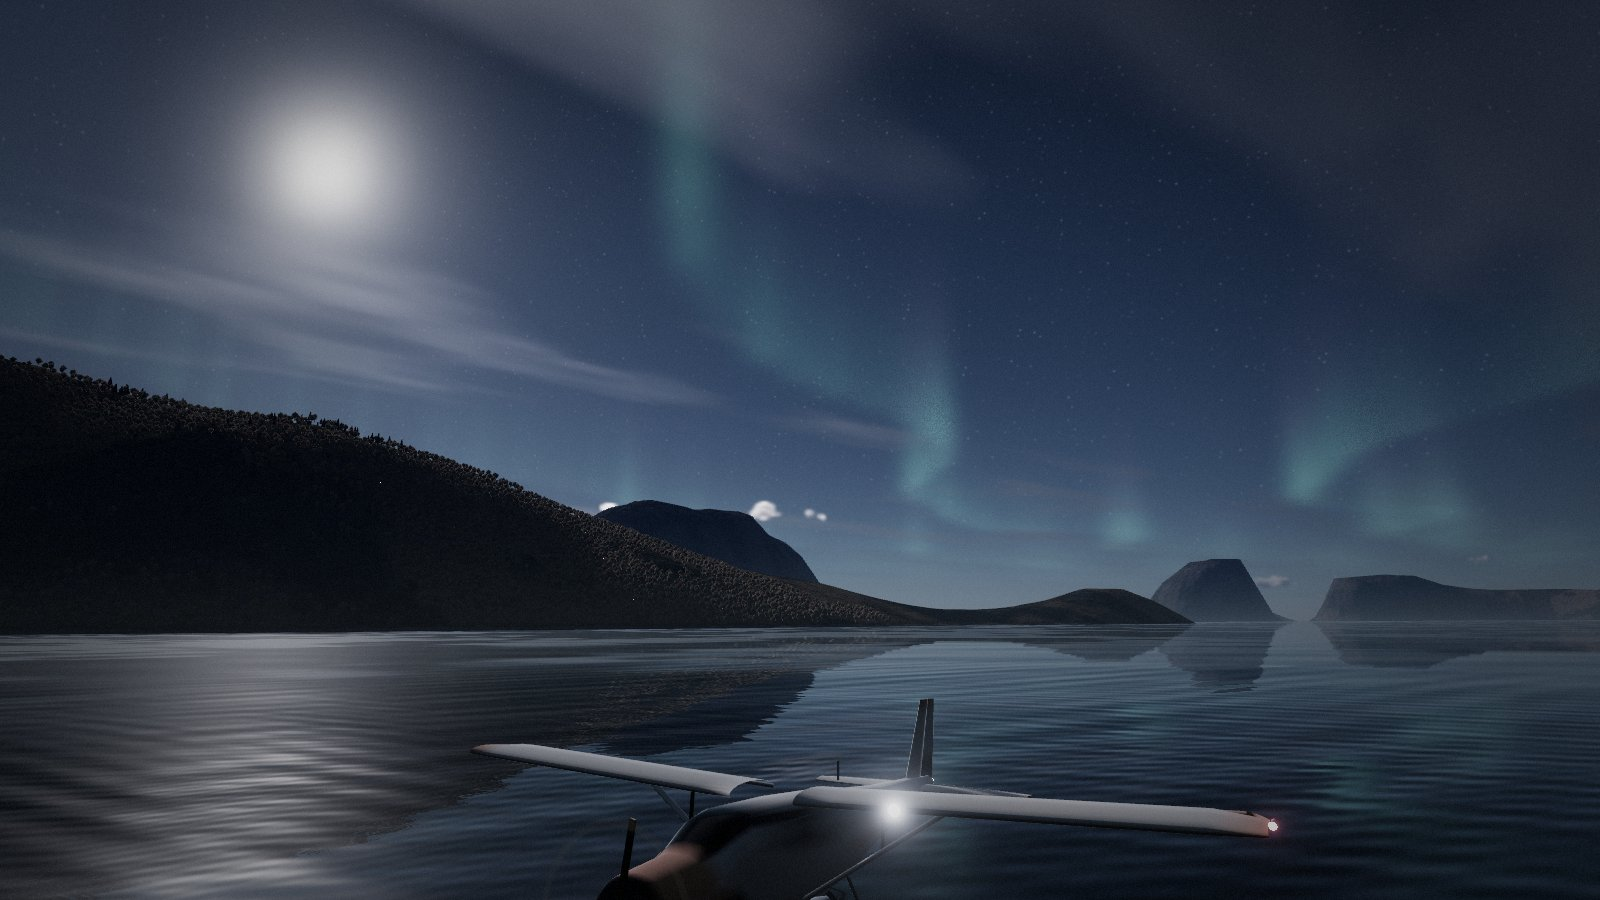
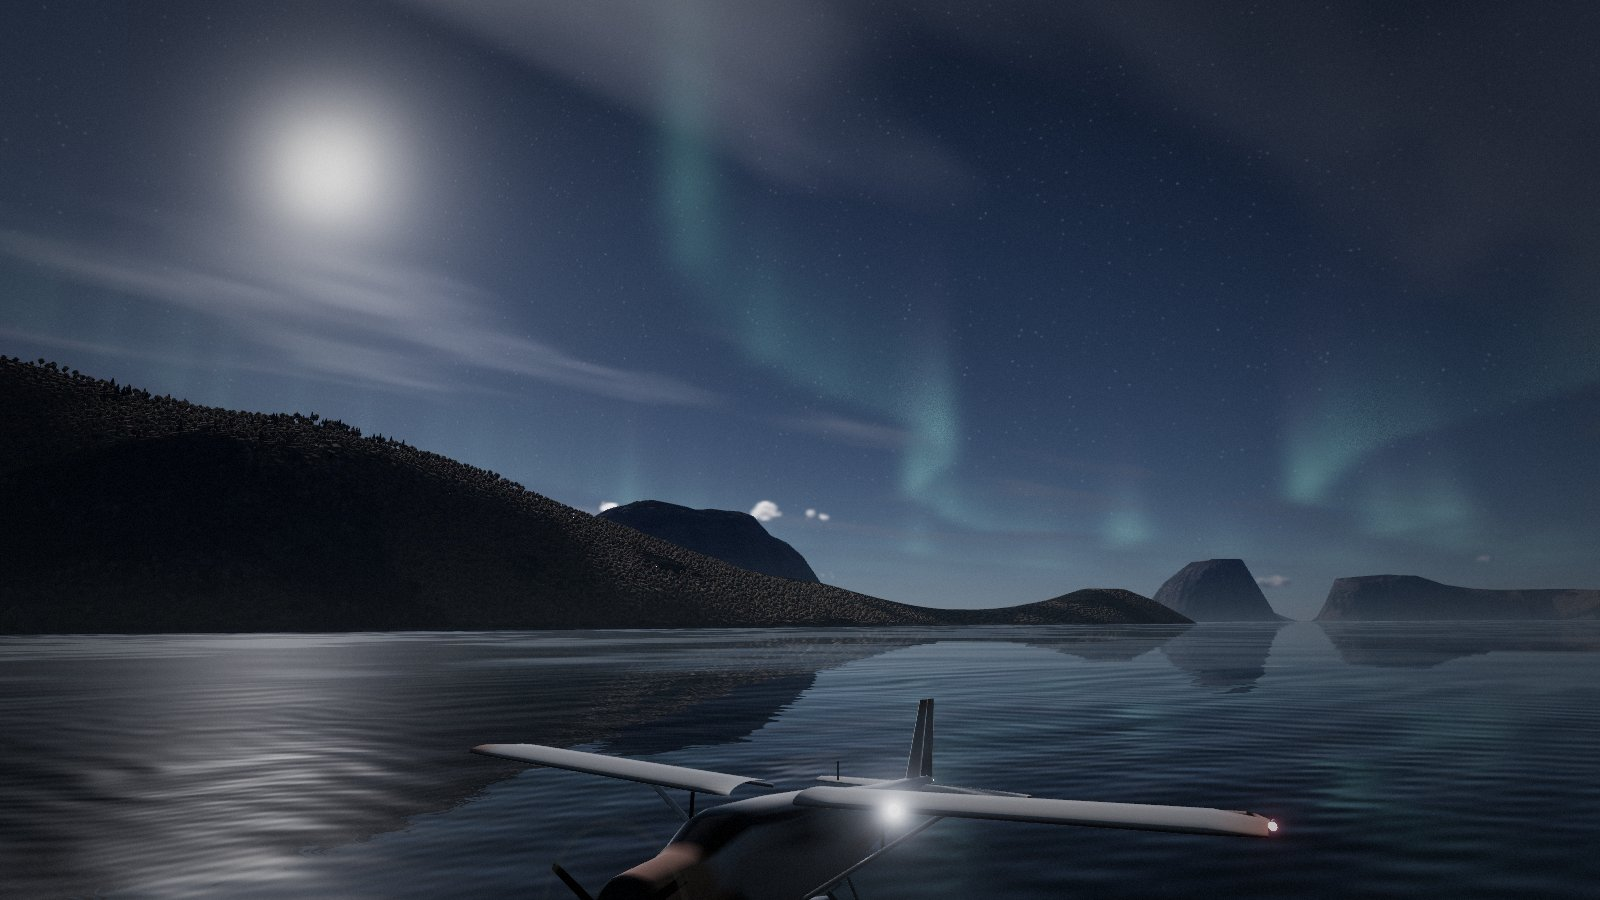
Terrain shading: rock relief on steep faces, sky occlusion, finer ground detail
Steep faces take their relief (folded beds, ledges, cracks, water stains) from
noise in the two vertical planes, so it no longer stretches down a slope. The
terrain shadow pass also writes the sky visibility, which dims ambient light in
the valleys for the terrain and the trees. Ground texture and detail normals go
down to about 0.2 m, snow holds on ledges, distant forest gets canopy bumps,
trees get leaf clumps, and the water's ripple crests are bent.

README screenshots regenerated. High preset: about 0.5-1.5 ms more GPU time.

diff --git a/src/render/terrainMesh.ts b/src/render/terrainMesh.ts
@@ -155,6 +155,46 @@ void paintRunway(inout vec3 col, inout float rough, vec2 p, vec4 A, vec2 RW, flo
   rough = mix(rough, paved > 0.5 ? 0.7 : 0.95, inside);
 }
 
+// Rock relief in a vertical plane (q.x along the face, q.y up), so it does not stretch down a steep
+// slope the way noise projected from above does: broad beds, strata, thin ledges and vertical cracks.
+// Returns the bedding value (about -1..1), the relief's gradient in metres per metre along q, and
+// how deep in a crack the point is (0..1); stain is the dark streaks water leaves down a wall.
+// warp (metres) folds the beds.
+vec4 rockPlane(vec2 q, float warp, float foot, uint seed, out float stain) {
+  stain = smoothstep(0.15, 0.7, vnoise(q * vec2(1.0 / 23.0, 1.0 / 380.0) + 11.0, seed + 4u));
+  // the beds dip and fold instead of lying level
+  q.y += 0.11 * q.x + warp;
+  float val = 0.0;
+  vec2 grad = vec2(0.0);
+  float crack = 0.0;
+  float f = 1.0 - smoothstep(0.25, 0.7, foot / 26.0);
+  if (f > 0.0) {
+    vec3 n = noised(q * vec2(1.0 / 310.0, 1.0 / 26.0), seed);
+    val += 0.55 * n.x * f;
+    grad += 3.2 * f * n.yz * vec2(1.0 / 310.0, 1.0 / 26.0);
+  }
+  f = 1.0 - smoothstep(0.25, 0.7, foot / 6.0);
+  if (f > 0.0) {
+    vec3 n = noised(q * vec2(1.0 / 70.0, 1.0 / 6.0) + 31.7, seed + 1u);
+    val += 0.35 * n.x * f;
+    grad += 0.9 * f * n.yz * vec2(1.0 / 70.0, 1.0 / 6.0);
+  }
+  f = 1.0 - smoothstep(0.25, 0.7, foot / 1.7);
+  if (f > 0.0) {
+    vec3 n = noised(q * vec2(1.0 / 19.0, 1.0 / 1.7) + 7.3, seed + 2u);
+    val += 0.2 * n.x * f;
+    grad += 0.26 * f * n.yz * vec2(1.0 / 19.0, 1.0 / 1.7);
+    // cracks and gullies run down the face
+    vec2 qc = vec2(q.x + 2.2 * vnoise(vec2(q.y * (1.0 / 8.0), 0.5), seed + 8u), q.y);
+    vec3 c = noised(qc * vec2(1.0 / 4.7, 1.0 / 30.0) + 3.9, seed + 3u);
+    float cf = 1.0 - smoothstep(0.2, 0.6, foot / 2.0);
+    float d = 1.0 - smoothstep(0.0, 0.22, abs(c.x));
+    crack = d * cf;
+    grad += 0.9 * cf * d * sign(c.x) * c.yz * vec2(1.0 / 4.7, 1.0 / 30.0);
+  }
+  return vec4(val, grad, crack);
+}
+
 void main() {
   #include <logdepthbuf_fragment>
   if (uReflectPass > 0.5 && vWorld.y < SEA_LEVEL - 0.3) discard;
@@ -172,8 +212,43 @@ void main() {
   float nS = vnoise(P.xz * (1.0 / 19.0), 503u);
   float nT = vnoise(P.xz * (1.0 / 4.3), 504u);
   float slope = 1.0 - N.y;
+  // fine ground texture, only where a pixel resolves it
+  float fF = 1.0 - smoothstep(0.2, 0.6, foot / 0.9);
+  float nF = fF > 0.0 ? vnoise(P.xz * (1.0 / 0.9), 505u) * fF : 0.0;
+  float fG = 1.0 - smoothstep(0.2, 0.6, foot / 0.21);
+  float nG = fG > 0.0 ? vnoise(P.xz * (1.0 / 0.21), 506u) * fG : 0.0;
+  // rock relief on steep faces, from the two vertical planes weighted by the way the face looks
+  float steep = smoothstep(0.13, 0.38, slope);
+  vec3 N0 = N;
+  float bed = 0.0;
+  float crack = 0.0;
+  float stain = 0.0;
+  vec3 rockGrad = vec3(0.0);
+  if (steep > 0.0) {
+    vec2 w2 = N.xz * N.xz;
+    // a narrow blend: most pixels read one plane only
+    float wx = smoothstep(0.3, 0.7, w2.x / max(w2.x + w2.y, 1e-6));
+    float warp = 70.0 * nL + 9.0 * nM;
+    if (wx > 0.0) {
+      float st;
+      vec4 r = rockPlane(P.zy, warp, foot, 620u, st);
+      stain += wx * st;
+      bed += wx * r.x;
+      crack += wx * r.w;
+      rockGrad += wx * vec3(0.0, r.z, r.y);
+    }
+    if (wx < 1.0) {
+      float st;
+      vec4 r = rockPlane(P.xy, warp, foot, 630u, st);
+      stain += (1.0 - wx) * st;
+      bed += (1.0 - wx) * r.x;
+      crack += (1.0 - wx) * r.w;
+      rockGrad += (1.0 - wx) * vec3(r.y, r.z, 0.0);
+    }
+  }
   float snowLine = 960.0 + 160.0 * nL + 150.0 * N.z + 45.0 * nM;
-  float snow = smoothstep(snowLine - 40.0, snowLine + 60.0, y) * (1.0 - smoothstep(0.34, 0.52, slope + 0.07 * nS));
+  // snow holds on the ledges of a steep face and slides off the beds between them
+  float snow = smoothstep(snowLine - 40.0, snowLine + 60.0, y) * (1.0 - smoothstep(0.34, 0.52, slope + 0.07 * nS - 0.16 * steep * bed));
   // a dusting on gentle slopes a little lower down
   snow = max(snow, 0.6 * smoothstep(snowLine - 170.0, snowLine - 40.0, y) * (1.0 - smoothstep(0.1, 0.2, slope + 0.06 * nT)) * smoothstep(-0.2, 0.5, nS + 0.3 * nT));
   float treeLine = 430.0 + 110.0 * nL;
@@ -182,14 +257,15 @@ void main() {
     * smoothstep(3.0, 10.0, y)
     * smoothstep(-0.55, 0.05, nM + 0.45 * nS)
     * stripClearing(P.xz);
-  float rock = smoothstep(0.17, 0.33, slope + 0.07 * nS + 0.03 * nT);
+  // the finer the noise a pixel resolves, the crisper the edge between heath and rock
+  float rock = smoothstep(0.19, 0.31, slope + 0.07 * nS + 0.045 * nT + 0.04 * nF + 0.025 * nG);
   float scree = smoothstep(0.1, 0.2, slope) * (1.0 - rock) * smoothstep(250.0, 600.0, y);
   float beach = (1.0 - smoothstep(1.5, 4.5, y + 2.0 * nS)) * (1.0 - smoothstep(0.2, 0.45, slope));
 
   // ---- detail normal (procedural micro relief beyond the mesh resolution)
   vec2 dsum = vec2(0.0);
-  float detailStr = mix(0.18, 0.45, max(rock, scree)) * (1.0 - 0.75 * snow) * (1.0 - 0.6 * forest);
-  for (int i = 0; i < 5; i++) {
+  float detailStr = mix(0.2, 0.75, max(rock, scree)) * (1.0 - 0.75 * snow) * (1.0 - 0.6 * forest);
+  for (int i = 0; i < 7; i++) {
     float f = 1.0 / (60.0 / pow(2.3, float(i)));
     float fade = 1.0 - smoothstep(0.15, 0.5, foot * f);
     if (fade <= 0.0) break;
@@ -197,19 +273,55 @@ void main() {
     dsum += g.yz * fade;
   }
   N = normalize(N + vec3(-dsum.x, 0.0, -dsum.y) * detailStr * 0.32);
+  // forest canopy seen from above: crowns as bumps where the trees themselves are too far to draw
+  if (forest > 0.0) {
+    float cf = 1.0 - smoothstep(0.2, 0.6, foot / 7.0);
+    if (cf > 0.0) {
+      vec3 c = gnoised(P.xz * (1.0 / 7.0) + 5.1, 640u);
+      N = normalize(N + vec3(-c.y, 0.0, -c.z) * 0.55 * cf * forest);
+    }
+  }
+  // rock relief: tilt the normal by the relief's gradient within the surface
+  float rockBump = steep * rock * (1.0 - 0.85 * snow);
+  if (rockBump > 0.0) {
+    vec3 gT = rockGrad - N0 * dot(N0, rockGrad);
+    N = normalize(N - gT * rockBump);
+  }
 
   // ---- albedo (autumn: golden birch, rusty heath, dark wet rock, fresh snow on the tops)
   vec3 heath = mix(vec3(0.075, 0.068, 0.04), vec3(0.11, 0.07, 0.035), smoothstep(-0.4, 0.5, nM));
   heath = mix(heath, vec3(0.13, 0.05, 0.025), smoothstep(0.35, 0.75, nS) * smoothstep(-0.2, 0.4, nM) * 0.7);
   heath = mix(heath, vec3(0.1, 0.095, 0.08), smoothstep(0.2, 0.9, nT) * 0.35);
   heath *= 0.85 + 0.3 * nT;
+  // close up: dry grass tufts and bare patches
+  heath = mix(heath, vec3(0.17, 0.135, 0.06), 0.5 * smoothstep(0.0, 0.8, nF + 0.6 * nG));
+  heath = mix(heath, vec3(0.045, 0.04, 0.03), 0.5 * smoothstep(0.25, 0.9, -nF - 0.4 * nG));
   vec3 birch = mix(vec3(0.24, 0.16, 0.03), vec3(0.2, 0.085, 0.02), smoothstep(0.2, 0.9, nS));
   vec3 pine = vec3(0.02, 0.034, 0.02);
   vec3 forestCol = mix(pine, birch, smoothstep(-0.5, 0.4, nL + 0.7 * nM)) * (0.7 + 0.45 * (0.5 + 0.5 * nT));
   float strata = 0.5 + 0.5 * sin(y * 0.07 + nM * 3.0 + nS);
-  vec3 rockCol = mix(vec3(0.055, 0.056, 0.06), vec3(0.13, 0.125, 0.12), smoothstep(-0.6, 0.7, nM + 0.25 * strata + 0.3 * nT));
-  vec3 screeCol = mix(vec3(0.1, 0.095, 0.085), vec3(0.16, 0.15, 0.135), 0.5 + 0.5 * nT);
-  vec3 snowCol = vec3(0.8, 0.83, 0.88) * (0.94 + 0.06 * nT);
+  float rockTone = mix(nM + 0.25 * strata + 0.3 * nT, 0.6 * nM + 0.75 * bed + 0.25 * nT, steep);
+  vec3 rockCol = mix(vec3(0.05, 0.051, 0.056), vec3(0.14, 0.133, 0.125), smoothstep(-0.6, 0.7, rockTone));
+  // iron staining in some beds, dark wet cracks, heath on the ledges below the tree line
+  rockCol = mix(rockCol, rockCol * vec3(1.35, 1.0, 0.72), smoothstep(0.0, 0.9, nL + 0.6 * nM - 0.8 * bed) * 0.6);
+  rockCol *= (1.0 - 0.28 * crack * steep) * (1.0 - 0.42 * stain * smoothstep(-0.4, 0.3, nL - nM) * smoothstep(0.3, 0.55, slope));
+  rockCol = mix(rockCol, heath * 1.15, 0.7 * steep * smoothstep(0.05, 0.4, bed) * (1.0 - smoothstep(0.3, 0.5, slope)) * (1.0 - smoothstep(350.0, 800.0, y)));
+  rockCol *= 1.0 + 0.22 * nT + 0.22 * nF + 0.14 * nG;
+  vec3 screeCol = mix(vec3(0.1, 0.095, 0.085), vec3(0.16, 0.15, 0.135), 0.5 + 0.5 * nT) * (1.0 + 0.3 * nF + 0.25 * nG);
+  vec3 snowCol = vec3(0.75, 0.78, 0.84) * (0.94 + 0.06 * nT);
+  // wind-packed drifts: long ripples across the wind, seen in the low sun
+  if (snow > 0.0) {
+    vec2 wd = normalize(uWind.xz + vec2(1e-3, 0.0));
+    vec2 sq = vec2(dot(P.xz, wd), dot(P.xz, vec2(-wd.y, wd.x)));
+    float sf = 1.0 - smoothstep(0.2, 0.6, foot / 3.0);
+    if (sf > 0.0) {
+      vec3 d1 = gnoised(sq * vec2(1.0 / 3.0, 1.0 / 14.0), 650u);
+      vec3 d2 = gnoised(sq * vec2(1.0 / 0.8, 1.0 / 3.5) + 9.0, 651u) * (1.0 - smoothstep(0.2, 0.6, foot / 0.8));
+      vec2 gs = d1.yz * vec2(1.0, 3.0 / 14.0) + 0.6 * d2.yz * vec2(1.0, 0.8 / 3.5);
+      vec3 gw = vec3(gs.x * wd.x - gs.y * wd.y, 0.0, gs.x * wd.y + gs.y * wd.x);
+      N = normalize(N - gw * 0.16 * sf * snow);
+    }
+  }
   vec3 beachCol = mix(vec3(0.15, 0.14, 0.12), vec3(0.06, 0.055, 0.05), 1.0 - smoothstep(0.0, 2.0, y));
   vec3 col = heath;
   col = mix(col, forestCol, forest);
@@ -222,14 +334,17 @@ void main() {
 STRIP_PAINT
 
   // ---- lighting
-  float tsh = terrainShadow(P) * planeShadow(P);
+  vec2 tl = terrainLight(P);
+  float tsh = tl.x * planeShadow(P);
   float shSun = mix(1.0, tsh, uKeyIsSun) * cloudShadowAt(P, uSunDir);
   float shMoon = mix(tsh, 1.0, uKeyIsSun) * cloudShadowAt(P, uMoonDir);
   float shadow = shSun;
+  // less sky reaches the valley floors and the foot of the walls, and the inside of a crack
+  float occ = skyOcclusion(tl.y) * (1.0 - 0.35 * crack * rockBump);
   float ndl = max(dot(N, uSunDir), 0.0);
   float ndm = max(dot(N, uMoonDir), 0.0);
   vec3 direct = (uSunColor * ndl * shSun + uMoonColor * ndm * shMoon) / PI;
-  vec3 amb = envDiffuse(N) * (0.6 + 0.4 * N.y);
+  vec3 amb = envDiffuse(N) * (0.6 + 0.4 * N.y) * occ;
   vec3 lit = col * (direct + amb + lampLight(P, N) / PI);
   // snow sheen
   vec3 H = normalize(uSunDir - normalize(V));

diff --git a/src/render/trees.ts b/src/render/trees.ts
@@ -19,6 +19,7 @@ out vec3 vWorld;
 out vec3 vNormal;
 out vec3 vAlbedo;
 out float vAO;
+out float vLeaf;
 #include <logdepthbuf_pars_vertex>
 float profile(float t, float birch) {
   // canopy radius (relative to height): pine = 4 stacked tiers, birch = lumpy ovoid
@@ -68,6 +69,7 @@ void main() {
   vWorld = world;
   vNormal = n;
   vAO = mix(0.45, 1.0, clamp(p.y / H, 0.0, 1.0));
+  vLeaf = aShape.z > 0.5 ? 0.0 : mix(0.7, 1.0, birch);
   if (aShape.z > 0.5) {
     vAlbedo = birch > 0.5 ? vec3(0.42, 0.4, 0.37) : vec3(0.06, 0.04, 0.025);
   } else {
@@ -87,21 +89,37 @@ in vec3 vWorld;
 in vec3 vNormal;
 in vec3 vAlbedo;
 in float vAO;
+in float vLeaf;
 out vec4 fragColor;
 #include <logdepthbuf_pars_fragment>
 void main() {
   #include <logdepthbuf_fragment>
   vec3 N = normalize(vNormal);
-  float tsh = terrainShadow(vWorld) * planeShadow(vWorld);
+  // foliage: clumps of leaves or needles break up the smooth cone, where a pixel resolves them
+  float foot = length(vWorld - uCamPosF) * uPixelAngle;
+  float lf = vLeaf * (1.0 - smoothstep(0.15, 0.5, foot / 0.45));
+  vec3 albedo = vAlbedo;
+  float ao = vAO;
+  if (lf > 0.0) {
+    vec3 q = vWorld * 1.15;
+    float a = 1.3 * vnoise(q.xz + q.y * vec2(0.7, -0.9), 801u);
+    float b = 1.3 * vnoise(q.zy * 1.9 + q.x * vec2(-0.6, 0.8), 802u);
+    N = normalize(N + vec3(a, 0.6 * (a - b), b) * 0.3 * lf);
+    float clump = (a + b) * 0.67;
+    albedo *= 1.0 + 0.35 * clump * lf;
+    ao *= 1.0 - 0.4 * lf * smoothstep(0.1, -0.7, clump);
+  }
+  vec2 tl = terrainLight(vWorld);
+  float tsh = tl.x * planeShadow(vWorld);
   float shSun = mix(1.0, tsh, uKeyIsSun) * cloudShadowAt(vWorld, uSunDir);
   float shMoon = mix(tsh, 1.0, uKeyIsSun) * cloudShadowAt(vWorld, uMoonDir);
   float ws = (dot(N, uSunDir) + 0.35) / 1.35;
   float wm = (dot(N, uMoonDir) + 0.35) / 1.35;
-  vec3 direct = (uSunColor * max(ws, 0.0) * shSun + uMoonColor * max(wm, 0.0) * shMoon) / PI;
+  vec3 direct = (uSunColor * max(ws, 0.0) * shSun + uMoonColor * max(wm, 0.0) * shMoon) / PI * mix(1.0, ao / max(vAO, 0.01), 0.7);
   // forward scattering through foliage
   float back = pow(max(dot(normalize(vWorld - uCamPosF), uSunDir), 0.0), 6.0) * 0.6;
-  vec3 amb = envDiffuse(N) * vAO;
-  vec3 col = vAlbedo * (direct * (1.0 + back) + amb + lampLight(vWorld, N) / PI);
+  vec3 amb = envDiffuse(N) * ao * skyOcclusion(tl.y);
+  vec3 col = albedo * (direct * (1.0 + back) + amb + lampLight(vWorld, N) / PI);
   fragColor = finalOutput(applyFog(col, uCamPosF, vWorld));
 }
 `;

diff --git a/src/render/shadows.ts b/src/render/shadows.ts
@@ -1,5 +1,6 @@
 // Terrain self-shadowing for low sun angles: a heightfield around the camera is baked on the GPU
 // (time-sliced, double-buffered) and a soft shadow is raymarched through it towards the key light.
+// The same pass writes the sky visibility (ambient occlusion) into the green channel.
 import * as THREE from 'three';
 import { FullscreenPass, passMaterial } from './fullscreen.ts';
 import { globals } from './globals.ts';
@@ -27,9 +28,29 @@ uniform vec3 uKeyDir;
 uniform float uTexel;
 in vec2 vUv;
 out vec4 fragColor;
+// Sky visibility (ambient occlusion) from the same heightfield: the horizon's elevation in 8
+// directions out to about 1.5 km. Valleys and fjord walls get less sky light than ridges.
+float skyVisibility(float h0) {
+  float ext = uBakeOrigin.z;
+  float vis = 0.0;
+  for (int d = 0; d < 8; d++) {
+    float a = (float(d) + 0.5) * 0.7853982;
+    vec2 dir = vec2(cos(a), sin(a));
+    float tanH = 0.0;
+    float t = uTexel * 1.5;
+    for (int i = 0; i < 6; i++) {
+      float hs = textureLod(uHeight, vUv + dir * (t / ext), 0.0).r;
+      tanH = max(tanH, (hs - h0) / (t + 60.0));
+      t *= 2.0;
+    }
+    vis += 1.0 / (1.0 + tanH * tanH);
+  }
+  return vis * 0.125;
+}
 void main() {
-  if (uKeyDir.y < -0.02) { fragColor = vec4(0.0); return; }
   float h0 = texture(uHeight, vUv).r + 4.0;
+  float ao = skyVisibility(h0 - 4.0);
+  if (uKeyDir.y < -0.02) { fragColor = vec4(0.0, ao, 0.0, 1.0); return; }
   vec2 dir = normalize(uKeyDir.xz + 1e-6);
   float tanE = uKeyDir.y / max(length(uKeyDir.xz), 1e-4);
   float ext = uBakeOrigin.z;
@@ -45,7 +66,7 @@ void main() {
     if (vis < -1.0) break;
     t += max(uTexel * 0.75, t * 0.055);
   }
-  fragColor = vec4(clamp(0.5 + 0.5 * vis, 0.0, 1.0), 0.0, 0.0, 1.0);
+  fragColor = vec4(clamp(0.5 + 0.5 * vis, 0.0, 1.0), ao, 0.0, 1.0);
 }
 `;
 

diff --git a/src/render/globals.ts b/src/render/globals.ts
@@ -130,15 +130,18 @@ vec3 applyFog(vec3 col, vec3 cam, vec3 P) {
   return col * T + sky * (1.0 - T);
 }
 
-/** Soft terrain shadow from the shadow map (1 = lit). */
-float terrainShadow(vec3 P) {
-  if (uShadowOrigin.z <= 1.0) return 1.0;
+/** Soft terrain shadow (x, 1 = lit) and sky visibility (y, 1 = open sky) from the shadow map. */
+vec2 terrainLight(vec3 P) {
+  if (uShadowOrigin.z <= 1.0) return vec2(1.0);
   vec2 uv = (P.xz - uShadowOrigin.xy) / uShadowOrigin.z + 0.5;
   vec2 e = min(uv, 1.0 - uv);
   float fade = smoothstep(0.0, 0.06, min(e.x, e.y));
-  if (fade <= 0.0) return 1.0;
-  return mix(1.0, texture(uShadowMap, uv).r, fade);
+  if (fade <= 0.0) return vec2(1.0);
+  return mix(vec2(1.0), texture(uShadowMap, uv).rg, fade);
 }
+float terrainShadow(vec3 P) { return terrainLight(P).x; }
+/** Ambient light factor from the sky visibility (ridges 1, deep valleys about 0.5). */
+float skyOcclusion(float vis) { return mix(0.4, 1.0, smoothstep(0.35, 0.97, vis)); }
 
 /** Shadow cast by the aircraft (1 = lit). */
 float planeShadow(vec3 P) {

diff --git a/src/render/water.ts b/src/render/water.ts
@@ -118,6 +118,7 @@ void main() {
   vec2 grad = vec2(0.0);
   // slope variance of ripples too small to resolve becomes roughness (keeps distant water from looking glassy)
   float lost = 0.0;
+  vec2 bend = footA < 4.2 ? vec2(vnoise(P.xz * (1.0 / 17.0), 920u), vnoise(P.xz * (1.0 / 6.0) + 3.3, 921u)) : vec2(0.0);
   for (int i = 0; i < 7; i++) {
     float fi = float(i);
     float lam = 7.0 * pow(0.7, fi);
@@ -129,7 +130,9 @@ void main() {
     float ang = wa + (h1 - 0.5) * 2.4;
     vec2 dir = vec2(cos(ang), sin(ang));
     float k = 6.28318 / lam;
-    float ph = k * dot(dir, P.xz) - sqrt(9.81 * k) * uTime + h2 * 6.28318;
+    // bent crests: straight parallel trains read as hatching
+    float ph = k * dot(dir, P.xz) - sqrt(9.81 * k) * uTime + h2 * 6.28318
+      + (i % 2 == 0 ? bend.x : bend.y) * (1.6 + 0.35 * fi);
     grad += dir * cos(ph) * slope * fade * (0.6 + 0.8 * h2);
   }
   N = normalize(N + vec3(-grad.x, 0.0, -grad.y));

diff --git a/NOTES.md b/NOTES.md
@@ -154,6 +154,15 @@ grow on a strip, within 35 m of it or 250 m past its ends.
 ## Rendering
 - HDR half-float target (MSAA), Hillaire atmosphere LUTs, volumetric clouds at ½ or ¼ resolution with
   temporal accumulation and a depth-aware bicubic upsample, bloom mip chain, ACES, vignette, grain.
+- Terrain surface (`src/render/terrainMesh.ts`): steep faces take their rock relief (folded beds, ledges,
+  cracks, dark water stains) from noise in the two vertical planes, so it does not stretch down a slope;
+  snow holds on the ledges; ground texture and detail normals go down to about 0.2 m where a pixel
+  resolves them; distant forest gets canopy bumps. The terrain shadow pass (`shadows.ts`) also writes the
+  sky visibility (horizon in 8 directions out to 1.5 km) into its green channel: valley floors and the
+  foot of the walls get less ambient light, on the terrain and the trees (`terrainLight()`,
+  `skyOcclusion()` in `globals.ts`). Not on the LDR fallback (no shadow pass there).
+- Trees: leaf clumps from noise in the fragment shader where a pixel resolves them. Water ripples: the
+  wave trains' crests are bent by noise (straight parallel trains read as hatching).
 - Reversed-Z depth where `EXT_clip_control` exists, logarithmic depth otherwise.
 - Fallbacks: no WebGL2 → explanation screen. No float render targets → LDR pipeline (tone mapping in the
   materials, flat cloud layer instead of the volumetric one, no terrain self-shadows). Shader compile
@@ -239,6 +248,10 @@ grow on a strip, within 35 m of it or 250 m past its ends.
   | high | 9.1 – 16.4 | ≤ 6.0 |
   | medium | 6.2 – 9.6 | ≤ 4.7 |
   | low (renders at 0.75×) | 3.0 – 6.3 | ≤ 2.8 |
+
+  With the terrain, tree and ripple shading of 2026-11-10 the high preset measured 9.9 – 17.4 ms against
+  9.7 – 16.9 ms just before in the same session (0.5 – 1.5 ms more in the views full of rock or ground;
+  medium about 0.5 – 1 ms more before the shaders were trimmed, not re-measured after).
 
   The same session before them: 9.6 – 16.5 / 6.6 – 11.0 / 3.2 – 10.4 ms on the GPU, ≤ 6.2 / 4.1 / 3.8 ms
   on the main thread. This laptop iGPU varies a lot from run to run with its clocks and temperature
